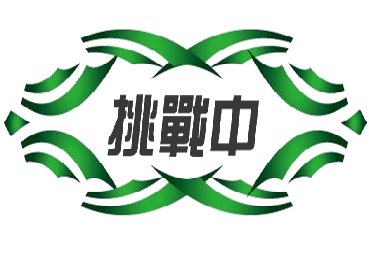
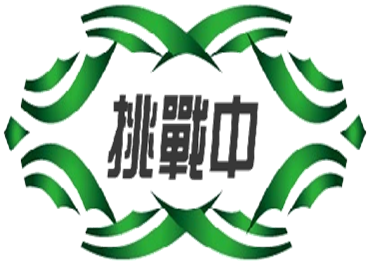
modified the challenge and css and replace new picture

diff --git a/challenge.html b/challenge.html
@@ -73,7 +73,7 @@
                 <div class="text_7 color_2">
                     挑戰:
                     <ul id="filters">
-                        <li><a href="#" data-filter="*">Show All</a></li>
+                        <li><a href="#" data-filter="mysend">我發的挑戰</a></li>
                         <li><a href="#" data-filter="finish">已完成</a></li>
                         <li><a href="#" data-filter="in-progress">進行中</a></li>
                     </ul>
@@ -91,10 +91,18 @@
                                 <div class="img-wrap">
                                     <img class="img_filter" src="images/challenge.png" alt="Image 1"/>
                                     <p class="img_text">
-                                        test Title<br>
+                                        test Title
                                     </p>
                                 </div>
                                 <div class="caption">
+                                    <h3 class="text_2 color_2 maxheight1">
+                                        <a href="#">指甲油挑戰</a>
+                                    </h3>
+                                    <ul class="post_meta" style="margin:10px">
+                                        <li class="post_meta_admin"><a href="#">Nether</a></li>
+                                        <li class="post_meta_date"><a href="#">2016-12-25</a></li>
+                                        <li class="post_meta_comments"><a href="#">56</a></li>
+                                    </ul>
                                     <p class="text_3">
                                         Description here1Description here1Description here1Description here1Description here1Description here1Description here1Description here1Description here1Description here1Description here1Description here1Description here1Description 
                                     </p>
@@ -104,23 +112,51 @@
                         </div>
                         <div class="element-item grid_4 finish">
                             <div class="box_7">
-                                <div class="video">
-                                    <img src="https://img.youtube.com/vi/lxYALZhw3YU/mqdefault.jpg?custom=true&amp;w=230&amp;h=138&amp;stc=true&amp;jpg444=true&amp;jpgq=90&amp;sp=68&amp;sigh=SBGjn_VG6IvJAP2AnD-9pwt-zD0" height="126px">
+                                <div class="img-wrap">
+                                    <img class="img_filter" src="https://img.youtube.com/vi/lxYALZhw3YU/mqdefault.jpg?custom=true&amp;w=230&amp;h=138&amp;stc=true&amp;jpg444=true&amp;jpgq=90&amp;sp=68&amp;sigh=SBGjn_VG6IvJAP2AnD-9pwt-zD0">
+                                    
                                 </div>
-                                <h3 class="text_2 color_2 maxheight1"><a href="#">指甲油挑戰</a></h3>
+                                <div>
+                                    <h3 class="text_2 color_2 maxheight1">
+                                        <a href="#">指甲油挑戰</a>
+                                    </h3>
+                                    <ul class="post_meta" style="margin:10px">
+                                        <li class="post_meta_admin"><a href="#">Nether</a></li>
+                                        <li class="post_meta_date"><a href="#">2016-12-25</a></li>
+                                        <li class="post_meta_comments"><a href="#">56</a></li>
+                                    </ul>
+                                    <p class="text_3 color_2 maxheight" id="text_post">
+                                        荷蘭6歲小男孩柯斯特倫雖然罹患末期腦癌，但他早前仍發起「塗指甲油挑戰」籌款。籌款反應熱烈，截至周五已籌得約127萬歐元（約1030萬港元）的善款。
+                                    </p>
+                                <a class="btn_2" href="#">更多資訊</a>
+                                </div>
+                            </div>
+                        </div>
+                        <div class="element-item grid_4 mysend">
+                            <div class="box_7">
+                                <div class="img-wrap">
+                                    <img class="img_filter" src="images/challenge.png" alt="Image 1"/>
+                                    <p class="img_text">
+                                        我發的挑戰 test
+                                    </p>
+                                </div>
+                                <h3 class="text_2 color_2 maxheight1">
+                                    <a href="#">指甲油挑戰</a>
+                                </h3>
                                 <ul class="post_meta" style="margin:10px">
                                     <li class="post_meta_admin"><a href="#">Nether</a></li>
                                     <li class="post_meta_date"><a href="#">2016-12-25</a></li>
                                     <li class="post_meta_comments"><a href="#">56</a></li>
                                 </ul>
-                                <p class="text_3 color_2 maxheight" id="text_post">
-                                荷蘭6歲小男孩柯斯特倫雖然罹患末期腦癌，但他早前仍發起「塗指甲油挑戰」籌款。籌款反應熱烈，截至周五已籌得約127萬歐元（約1030萬港元）的善款。
-                                </p>
-                                <a class="btn_2" href="#">更多資訊</a></div>
+                                <div class="caption">
+                                    <p class="text_3">
+                                        Description here1Description here1Description here1Description here1Description here1Description here1Description here1Description here1Description here1Description here1Description here1Description here1Description here1Description 
+                                    </p>
+                                    <a class="btn_2" href="#">更多資訊</a>
+                                </div>
                             </div>
                         </div>
-                       
-                        <!--end element item-->
+                    </div><!--end element item-->
                     </div>
                 </div>
             </div>

diff --git a/css/challenge.css b/css/challenge.css
@@ -46,8 +46,11 @@ img {
 * {
   -webkit-text-size-adjust: none;
 }
-/*====  ChainRule's modified  =====*/
+/*====  img for challenge modified  =====*/
+
 .img-wrap{
+  width:370px;
+  height: 180px;
   opacity: 0.7;
 }
 .img-wrap .img_text{
@@ -62,7 +65,7 @@ img {
   position: relative;
   max-width: 580px;
   border-radius: 0 2px 2px 0;
-  background-color: rgba(0,0,0,0.8);
+  background-color: rgba(0,0,0,0.6);
   padding: 5px 10px 10px 10px;
   -webkit-transition: background-color 0.2s ease-out; /* Saf3.2+, Chrome */
   -moz-transition: background-color 0.2s ease-out; /* Firefox 4+ */
@@ -74,8 +77,14 @@ img {
 .img-wrap:hover .img_text {
   background-color: #129894;
 }
+.img_text{
+  margin-top: 35px;
+}
+
 .img_filter{
   opacity: 0.8;
+  width: 320px;
+  height: 180px;
 }
 .img-wrap:hover .img_filter{
   filter: grayscale(80%);
@@ -1224,8 +1233,3 @@ a[data-type='lightbox']:hover img {
   height: auto;
 }
 
-
-/*videoForChallenge.html*/
-.video{
-  padding-bottom: 5px;
-}
